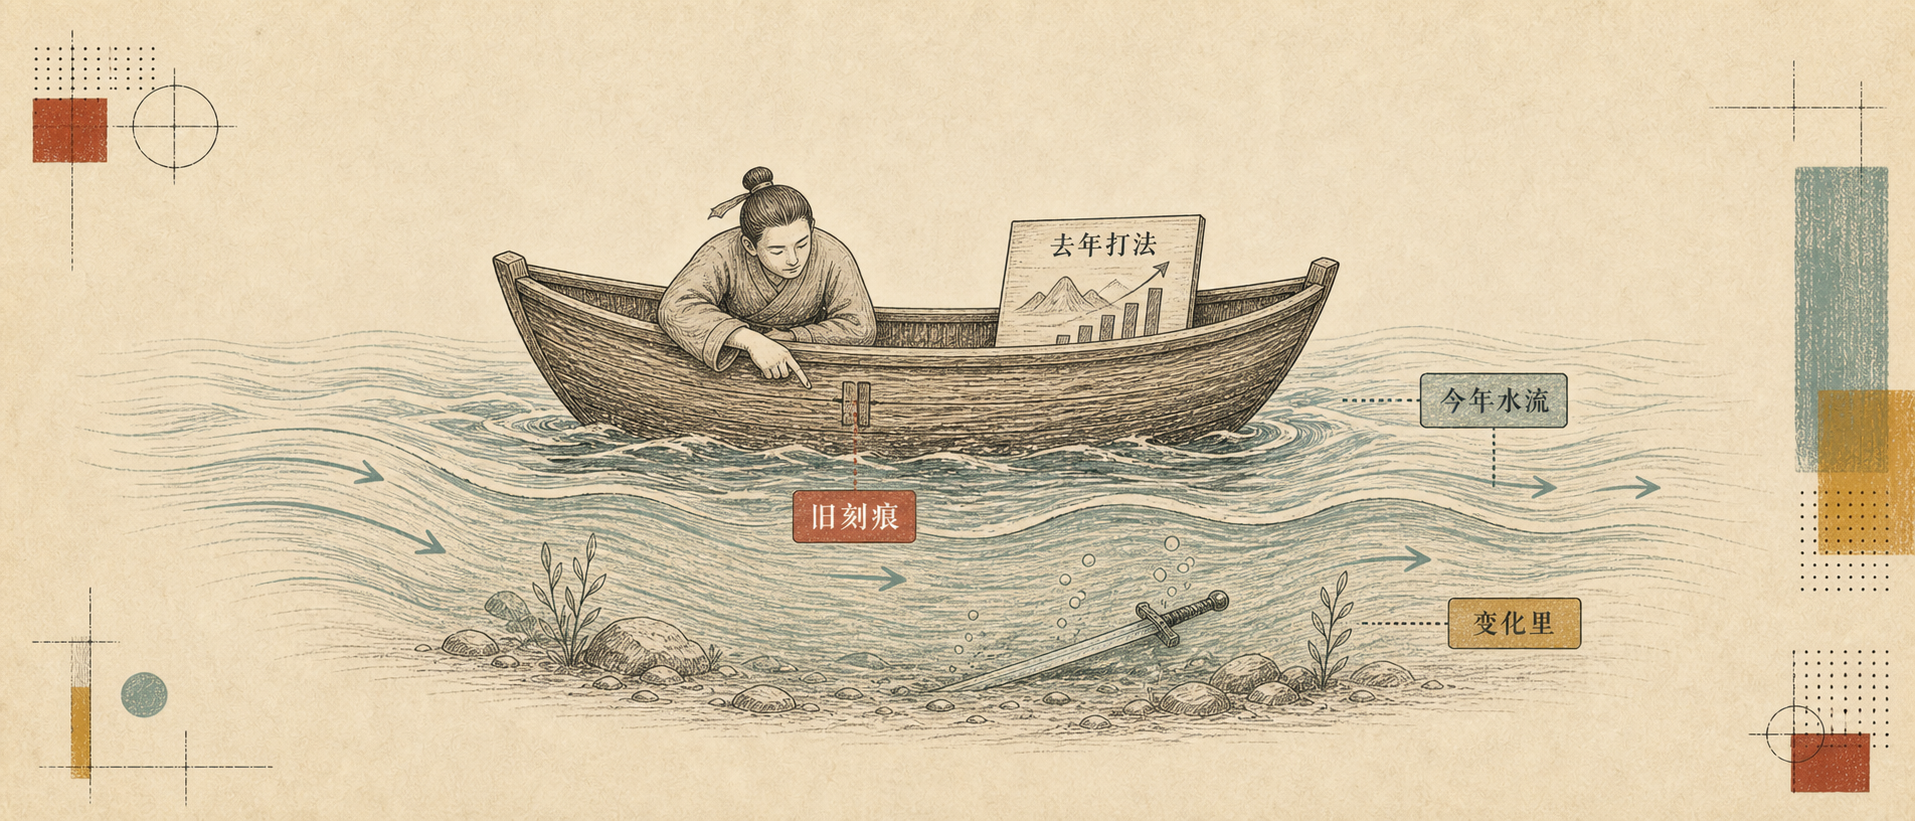
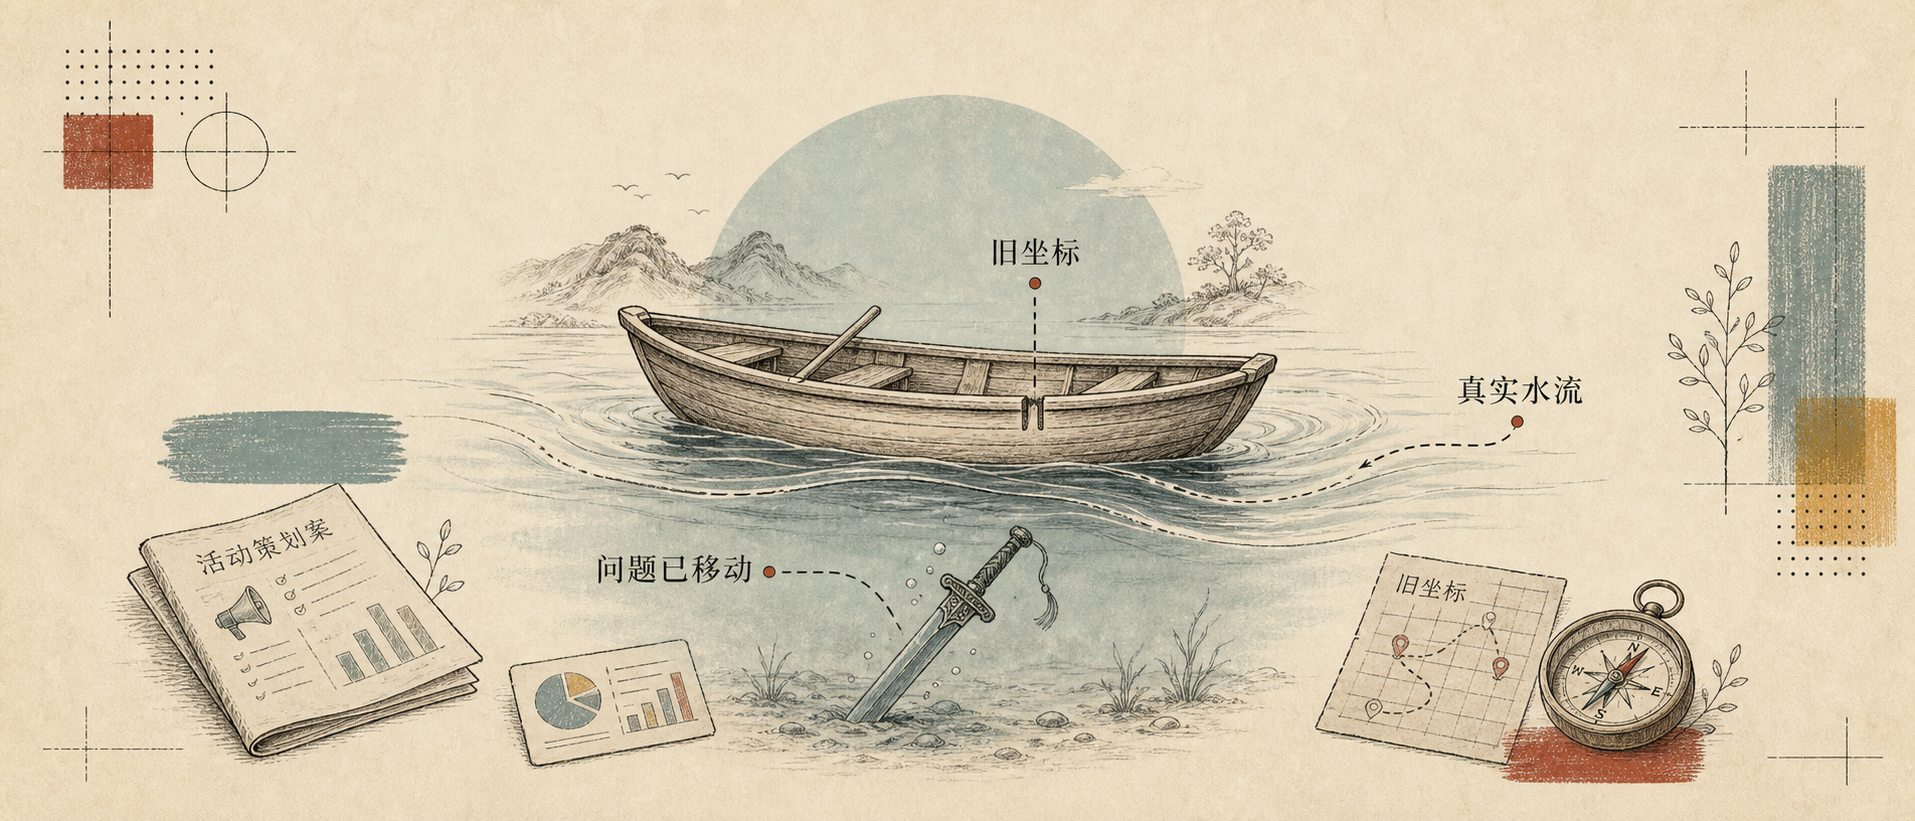
update-marketing-fable-static-covers

diff --git a/api/lib/static-blog-images.js b/api/lib/static-blog-images.js
@@ -3,6 +3,7 @@ const PAGE_IMAGES = {
     cover: '/images/blog/marketing-fables/02/cover.png',
     files: {
       '00-cover-%E5%88%BB%E8%88%9F%E6%B1%82%E5%89%91.png': '/images/blog/marketing-fables/02/cover.png',
+      '00-cover-%E5%88%BB%E8%88%9F%E6%B1%82%E5%89%91-%E6%97%A0%E6%A0%87%E9%A2%98%E5%B1%85%E4%B8%AD.png': '/images/blog/marketing-fables/02/cover.png',
       '01-%E7%88%86%E6%AC%BE%E5%85%AC%E5%BC%8F%E5%A4%B1%E7%81%B5.png': '/images/blog/marketing-fables/02/01.png',
       '02-%E4%BB%8E%E5%81%9C%E4%B8%8B%E5%88%B0%E7%95%99%E4%B8%8B.png': '/images/blog/marketing-fables/02/02.png',
       '03-%E5%86%85%E5%AE%B9%E5%BD%93%E8%B7%AF%E6%A0%87.png': '/images/blog/marketing-fables/02/03.png'
@@ -12,6 +13,7 @@ const PAGE_IMAGES = {
     cover: '/images/blog/marketing-fables/03/cover.png',
     files: {
       '00-cover-%E6%8E%A9%E8%80%B3%E7%9B%97%E9%93%83.png': '/images/blog/marketing-fables/03/cover.png',
+      '00-cover-%E6%8E%A9%E8%80%B3%E7%9B%97%E9%93%83-%E6%97%A0%E6%A0%87%E9%A2%98%E5%B1%85%E4%B8%AD.png': '/images/blog/marketing-fables/03/cover.png',
       '01-%E6%8A%A5%E8%A1%A8%E5%BE%88%E5%A5%BD%E7%9C%8B.png': '/images/blog/marketing-fables/03/01.png',
       '02-%E8%AF%8D%E7%9B%96%E4%BD%8F%E9%97%AE%E9%A2%98.png': '/images/blog/marketing-fables/03/02.png',
       '03-%E6%8A%8A%E6%89%8B%E6%8B%BF%E4%B8%8B%E6%9D%A5.png': '/images/blog/marketing-fables/03/03.png'
@@ -19,7 +21,7 @@ const PAGE_IMAGES = {
   }
 };
 
-const STATIC_IMAGE_VERSION = 'v=20260611-1';
+const STATIC_IMAGE_VERSION = 'v=20260611-2';
 const normalizePageId = (pageId = '') => pageId.replace(/-/g, '');
 const withVersion = (url) => `${url}?${STATIC_IMAGE_VERSION}`;
 